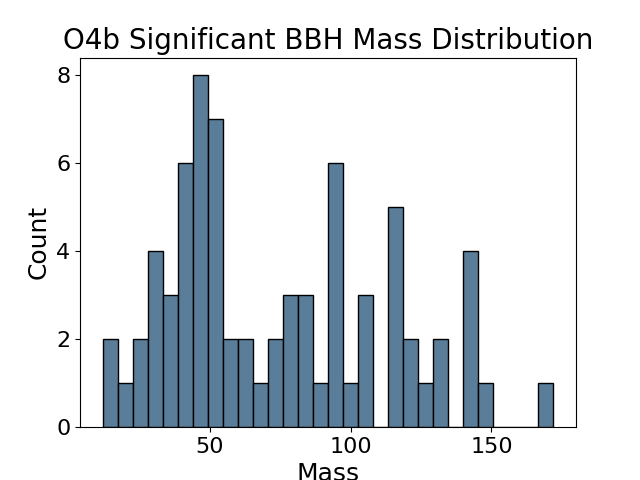
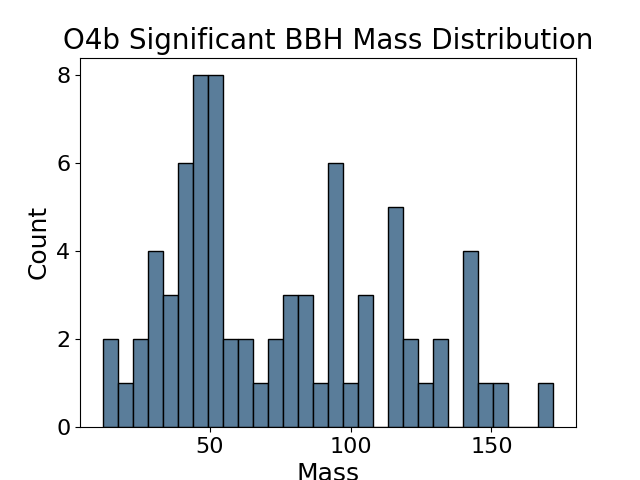
push from O4a notebook

Changed region(s): [[0.75, 0.7812, 0.8125, 0.9062], [0.3125, 0.1562, 0.375, 0.25]]

diff --git a/error_trigger.md b/error_trigger.md
@@ -1,17 +1,6 @@
-| graceids                                                          |   GW MJD |   90% Area (deg2) |   Distance (Gpc) |   FAR (years/FA) |   Mass (M_sol) | trigger       | trigger plan   | gcnids                                                                      | time   | probability   | start   | cadence   |
-|:------------------------------------------------------------------|---------:|------------------:|-----------------:|-----------------:|---------------:|:--------------|:---------------|:----------------------------------------------------------------------------|:-------|:--------------|:--------|:----------|
-| [S241114bi](https://gracedb.ligo.org/superevents/S241114bi/view/) |    60629 |             10125 |             0.75 |     180000       |             30 | no plan       |                | [2024-11-14T23:52:58](https://fritz.science/gcn_events/2024-11-14T23:52:58) |        |               |         |           |
-| [S241116cq](https://gracedb.ligo.org/superevents/S241116cq/view/) |    60631 |              2291 |             5.6  |          4.5     |            142 | no plan       |                | [2024-11-16T15:17:53](https://fritz.science/gcn_events/2024-11-16T15:17:53) |        |               |         |           |
-| [S241109p](https://gracedb.ligo.org/superevents/S241109p/view/)   |    60623 |              1760 |             2.28 |        524.5     |             81 | no plan       |                | [2024-11-09T03:33:18](https://fritz.science/gcn_events/2024-11-09T03:33:18) |        |               |         |           |
-| [S241110br](https://gracedb.ligo.org/superevents/S241110br/view/) |    60625 |               102 |             0.75 |          6.8     |             31 | no valid plan |                | [2024-11-10T12:41:23](https://fritz.science/gcn_events/2024-11-10T12:41:23) |        |               |         |           |
-| [S241113p](https://gracedb.ligo.org/superevents/S241113p/view/)   |    60628 |             11825 |             1.32 |          2.2e+06 |             49 | no plan       |                | [2024-11-13T16:35:07](https://fritz.science/gcn_events/2024-11-13T16:35:07) |        |               |         |           |
-| [S241101ee](https://gracedb.ligo.org/superevents/S241101ee/view/) |    60616 |              7669 |             2.16 |       2300       |             78 | no plan       |                | [2024-11-01T22:05:23](https://fritz.science/gcn_events/2024-11-01T22:05:23) |        |               |         |           |
-| [S241007bw](https://gracedb.ligo.org/superevents/S241007bw/view/) |    60590 |               823 |             3.92 |          1.9     |             95 | no valid plan |                | [2024-10-07T08:29:43](https://fritz.science/gcn_events/2024-10-07T08:29:43) |        |               |         |           |
-| [S241009l](https://gracedb.ligo.org/superevents/S241009l/view/)   |    60592 |              1595 |             5.54 |          1       |            118 | no plan       |                | [2024-10-09T02:28:35](https://fritz.science/gcn_events/2024-10-09T02:28:35) |        |               |         |           |
-| [S241011k](https://gracedb.ligo.org/superevents/S241011k/view/)   |    60595 |                72 |             0.21 |          1.3e+26 |             12 | bad trigger   |                | [2024-10-11T23:38:34](https://fritz.science/gcn_events/2024-10-11T23:38:34) |        |               |         |           |
-| [S240930aa](https://gracedb.ligo.org/superevents/S240930aa/view/) |    60583 |               457 |             1.4  |          1e+11   |             51 | bad trigger   |                | [2024-09-30T03:59:59](https://fritz.science/gcn_events/2024-09-30T03:59:59) |        |               |         |           |
-| [S240920bz](https://gracedb.ligo.org/superevents/S240920bz/view/) |    60573 |               349 |             1.37 |        100       |             53 | bad trigger   |                | [nan](https://fritz.science/gcn_events/nan)                                 |        |               |         |           |
-| [S240921cw](https://gracedb.ligo.org/superevents/S240921cw/view/) |    60575 |               471 |             0.87 |         39.5     |             36 | no valid plan |                | [nan](https://fritz.science/gcn_events/nan)                                 |        |               |         |           |
-| [S240916ar](https://gracedb.ligo.org/superevents/S240916ar/view/) |    60570 |               569 |             1.27 |          1.9     |             39 | no valid plan |                | [nan](https://fritz.science/gcn_events/nan)                                 |        |               |         |           |
-| [S240917cb](https://gracedb.ligo.org/superevents/S240917cb/view/) |    60571 |              8642 |             6.66 |          0.6     |            132 | no plan       |                | [nan](https://fritz.science/gcn_events/nan)                                 |        |               |         |           |
-| [S240915bd](https://gracedb.ligo.org/superevents/S240915bd/view/) |    60568 |              4242 |             0.61 |     960000       |             24 | bad trigger   |                | [nan](https://fritz.science/gcn_events/nan)                                 |        |               |         |           |
+| graceids                                                          |   GW MJD |   90% Area (deg2) |   Distance (Gpc) |   FAR (years/FA) |   Mass (M_sol) | trigger     | trigger plan   | gcnids                                                                      | time   | probability   | start   | cadence   |
+|:------------------------------------------------------------------|---------:|------------------:|-----------------:|-----------------:|---------------:|:------------|:---------------|:----------------------------------------------------------------------------|:-------|:--------------|:--------|:----------|
+| [S241011k](https://gracedb.ligo.org/superevents/S241011k/view/)   |    60595 |                72 |             0.21 |          1.3e+26 |             12 | bad trigger |                | [2024-10-11T23:38:34](https://fritz.science/gcn_events/2024-10-11T23:38:34) |        |               |         |           |
+| [S240930aa](https://gracedb.ligo.org/superevents/S240930aa/view/) |    60583 |               457 |             1.4  |          1e+11   |             51 | bad trigger |                | [2024-09-30T03:59:59](https://fritz.science/gcn_events/2024-09-30T03:59:59) |        |               |         |           |
+| [S240920bz](https://gracedb.ligo.org/superevents/S240920bz/view/) |    60573 |               349 |             1.37 |        100       |             53 | bad trigger |                | [nan](https://fritz.science/gcn_events/nan)                                 |        |               |         |           |
+| [S240915bd](https://gracedb.ligo.org/superevents/S240915bd/view/) |    60568 |              4242 |             0.61 |     960000       |             24 | bad trigger |                | [nan](https://fritz.science/gcn_events/nan)                                 |        |               |         |           |

diff --git a/O4b.md b/O4b.md
@@ -46,10 +46,10 @@
 | [S240908bs](https://gracedb.ligo.org/superevents/S240908bs/view/) |    60561 |                74 |             3.35 |        100       |            118 | predates trigger      |
 | [S240907cg](https://gracedb.ligo.org/superevents/S240907cg/view/) |    60561 |              1064 |             4.33 |         34.7     |            148 | predates trigger      |
 | [S240919bn](https://gracedb.ligo.org/superevents/S240919bn/view/) |    60572 |                16 |             1.71 |          7.9e+11 |             61 | triggered             |
-| [S240917cb](https://gracedb.ligo.org/superevents/S240917cb/view/) |    60571 |              8642 |             6.66 |          0.6     |            132 | no plan               |
-| [S240916ar](https://gracedb.ligo.org/superevents/S240916ar/view/) |    60570 |               569 |             1.27 |          1.9     |             39 | no valid plan         |
+| [S240917cb](https://gracedb.ligo.org/superevents/S240917cb/view/) |    60571 |              8642 |             6.66 |          0.6     |            132 | not triggered         |
+| [S240916ar](https://gracedb.ligo.org/superevents/S240916ar/view/) |    60570 |               569 |             1.27 |          1.9     |             39 | not triggered         |
 | [S240922df](https://gracedb.ligo.org/superevents/S240922df/view/) |    60576 |                97 |             1.18 |          2.3e+16 |             46 | not triggered         |
-| [S240921cw](https://gracedb.ligo.org/superevents/S240921cw/view/) |    60575 |               471 |             0.87 |         39.5     |             36 | no valid plan         |
+| [S240921cw](https://gracedb.ligo.org/superevents/S240921cw/view/) |    60575 |               471 |             0.87 |         39.5     |             36 | not triggered         |
 | [S240920dw](https://gracedb.ligo.org/superevents/S240920dw/view/) |    60574 |               135 |             0.98 |          3.3e+43 |             52 | not triggered         |
 | [S240920bz](https://gracedb.ligo.org/superevents/S240920bz/view/) |    60573 |               349 |             1.37 |        100       |             53 | bad trigger           |
 | [S240930aa](https://gracedb.ligo.org/superevents/S240930aa/view/) |    60583 |               457 |             1.4  |          1e+11   |             51 | bad trigger           |
@@ -61,15 +61,17 @@
 | [S241011k](https://gracedb.ligo.org/superevents/S241011k/view/)   |    60595 |                72 |             0.21 |          1.3e+26 |             12 | bad trigger           |
 | [S241009em](https://gracedb.ligo.org/superevents/S241009em/view/) |    60593 |                25 |             2.78 |         11.2     |             93 | triggered             |
 | [S241009an](https://gracedb.ligo.org/superevents/S241009an/view/) |    60592 |               299 |             1    |      16000       |             39 | not triggered         |
-| [S241009l](https://gracedb.ligo.org/superevents/S241009l/view/)   |    60592 |              1595 |             5.54 |          1       |            118 | no plan               |
-| [S241007bw](https://gracedb.ligo.org/superevents/S241007bw/view/) |    60590 |               823 |             3.92 |          1.9     |             95 | no valid plan         |
+| [S241009l](https://gracedb.ligo.org/superevents/S241009l/view/)   |    60592 |              1595 |             5.54 |          1       |            118 | not triggered         |
+| [S241007bw](https://gracedb.ligo.org/superevents/S241007bw/view/) |    60590 |               823 |             3.92 |          1.9     |             95 | not triggered         |
 | [S241102cy](https://gracedb.ligo.org/superevents/S241102cy/view/) |    60617 |               834 |             3.44 |          2.1     |             86 | not triggered         |
 | [S241102br](https://gracedb.ligo.org/superevents/S241102br/view/) |    60617 |                28 |             0.36 |          2.8e+33 |             20 | not triggered         |
-| [S241101ee](https://gracedb.ligo.org/superevents/S241101ee/view/) |    60616 |              7669 |             2.16 |       2300       |             78 | no plan               |
+| [S241101ee](https://gracedb.ligo.org/superevents/S241101ee/view/) |    60616 |              7669 |             2.16 |       2300       |             78 | not triggered         |
 | [S241114y](https://gracedb.ligo.org/superevents/S241114y/view/)   |    60628 |               152 |             2.51 |     350000       |             92 | triggered             |
-| [S241113p](https://gracedb.ligo.org/superevents/S241113p/view/)   |    60628 |             11825 |             1.32 |          2.2e+06 |             49 | no plan               |
+| [S241113p](https://gracedb.ligo.org/superevents/S241113p/view/)   |    60628 |             11825 |             1.32 |          2.2e+06 |             49 | not triggered         |
 | [S241111bn](https://gracedb.ligo.org/superevents/S241111bn/view/) |    60625 |               424 |             1.39 |          4.5e+21 |             55 | not triggered         |
-| [S241110br](https://gracedb.ligo.org/superevents/S241110br/view/) |    60625 |               102 |             0.75 |          6.8     |             31 | no valid plan         |
-| [S241109p](https://gracedb.ligo.org/superevents/S241109p/view/)   |    60623 |              1760 |             2.28 |        524.5     |             81 | no plan               |
-| [S241116cq](https://gracedb.ligo.org/superevents/S241116cq/view/) |    60631 |              2291 |             5.6  |          4.5     |            142 | no plan               |
-| [S241114bi](https://gracedb.ligo.org/superevents/S241114bi/view/) |    60629 |             10125 |             0.75 |     180000       |             30 | no plan               |
+| [S241110br](https://gracedb.ligo.org/superevents/S241110br/view/) |    60625 |               102 |             0.75 |          6.8     |             31 | not triggered         |
+| [S241109p](https://gracedb.ligo.org/superevents/S241109p/view/)   |    60623 |              1760 |             2.28 |        524.5     |             81 | not triggered         |
+| [S241116cq](https://gracedb.ligo.org/superevents/S241116cq/view/) |    60631 |              2291 |             5.6  |          4.5     |            142 | not triggered         |
+| [S241114bi](https://gracedb.ligo.org/superevents/S241114bi/view/) |    60629 |             10125 |             0.75 |     180000       |             30 | not triggered         |
+| [S241125n](https://gracedb.ligo.org/superevents/S241125n/view/)   |    60639 |              1956 |             4.47 |         33.3     |            151 | triggered             |
+| [S241122a](https://gracedb.ligo.org/superevents/S241122a/view/)   |    60637 |             28549 |             2.27 |          0.5     |             51 | not triggered         |

diff --git a/trigger.md b/trigger.md
@@ -1,5 +1,6 @@
 | graceids                                                          |   GW MJD |   90% Area (deg2) |   Distance (Gpc) |   FAR (years/FA) |   Mass (M_sol) | gcnids                                                                      |   time |   probability | start                   | cadence                                                                              |
 |:------------------------------------------------------------------|---------:|------------------:|-----------------:|-----------------:|---------------:|:----------------------------------------------------------------------------|-------:|--------------:|:------------------------|:-------------------------------------------------------------------------------------|
+| [S241125n](https://gracedb.ligo.org/superevents/S241125n/view/)   |    60639 |              1956 |             4.47 |         33.3     |            151 | [2024-11-25T01:01:16](https://fritz.science/gcn_events/2024-11-25T01:01:16) |    900 |          0.5  |                         |                                                                                      |
 | [S241114y](https://gracedb.ligo.org/superevents/S241114y/view/)   |    60628 |               152 |             2.51 |     350000       |             92 | [2024-11-14T02:47:11](https://fritz.science/gcn_events/2024-11-14T02:47:11) |   1140 |          0.86 | 2024-11-15T01:42:44.719 | ['2024.11.22', '2024.11.29', '2024.12.06', '2024.12.13', '2024.12.25', '2025.01.04'] |
 | [S241009em](https://gracedb.ligo.org/superevents/S241009em/view/) |    60593 |                25 |             2.78 |         11.2     |             93 | [2024-10-09T22:04:55](https://fritz.science/gcn_events/2024-10-09T22:04:55) |    120 |          0.76 | 2024-10-12T09:00:53.912 | ['2024.10.19', '2024.10.26', '2024.11.02', '2024.11.09', '2024.11.21', '2024.12.01'] |
 | [S241006k](https://gracedb.ligo.org/superevents/S241006k/view/)   |    60589 |               263 |             1.9  |          5.3e+33 |             80 | [2024-10-06T01:53:33](https://fritz.science/gcn_events/2024-10-06T01:53:33) |   1260 |          0.91 | 2024-10-06T02:20:20.960 | ['2024.10.13', '2024.10.20', '2024.10.27', '2024.11.03', '2024.11.15', '2024.11.25'] |
